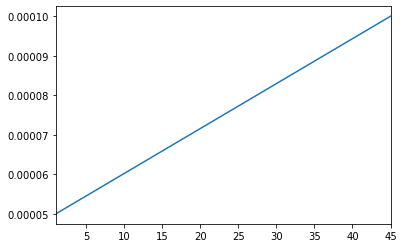
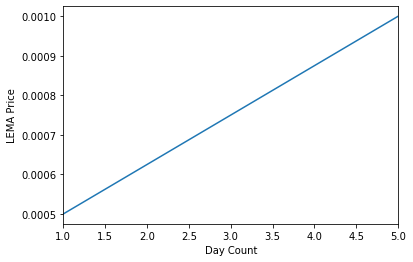
info fixed

Changed region(s): [[0.0, 0.0, 0.9802, 0.9879]]

diff --git a/src/components/PresaleInformation.js b/src/components/PresaleInformation.js
@@ -7,15 +7,15 @@ export default function PresaleInformation() {
       <div className="presaleinformation">
         <h1 className="title custom-font">Private Sale Information</h1>
         <ul>
-          <li>Start Time = May 20, 2022 (12:00 AM UTC).</li>
-          <li>
-            End Time = May 31, 2022 (12:00 AM UTC). <i>[Subject to change]</i>
-          </li>
+          <li>Start Time = May 25, 2022 (12:00 AM UTC).</li>
+          <li>End Time = May 30, 2022 (12:00 AM UTC).</li>
           <li>Soft Cap = $0</li>
           <li>
-            Hard Cap = $450,000 or 600,000,000 LEMA. <br />
-            If this goal is not met within the private sale deadline, the
-            remaining tokens will be burnt.
+            Hard Cap = 600,000,000 LEMA. <br />
+            <i>
+              The remaining tokens will be allocation for the seed round
+              funding.
+            </i>
           </li>
           <li>Commitment should be done in BUSD.</li>
           <li>There is no minimum or maximum amount to commit.</li>
@@ -37,11 +37,18 @@ export default function PresaleInformation() {
           </ul> */}
           <li>
             Private sale LEMA tokens will be claimable after vesting. See
-            schedule in our tokenomics. Stay tuned to our social media for
-            updates. Links in the footer.
+            schedule in our tokenomics{" "}
+            <a
+              href="https://www.lemmatron.com/assets/images/tokenomics.png"
+              target="_blank"
+              rel="noreferrer"
+            >
+              <u>here</u>
+            </a>
+            .
           </li>
           <li>
-            The price at which your commitment will execute depends on the days
+            The price at which your commitment executes depends on the time
             since the start of the presale which is illustrated by the figure
             below:
           </li>
